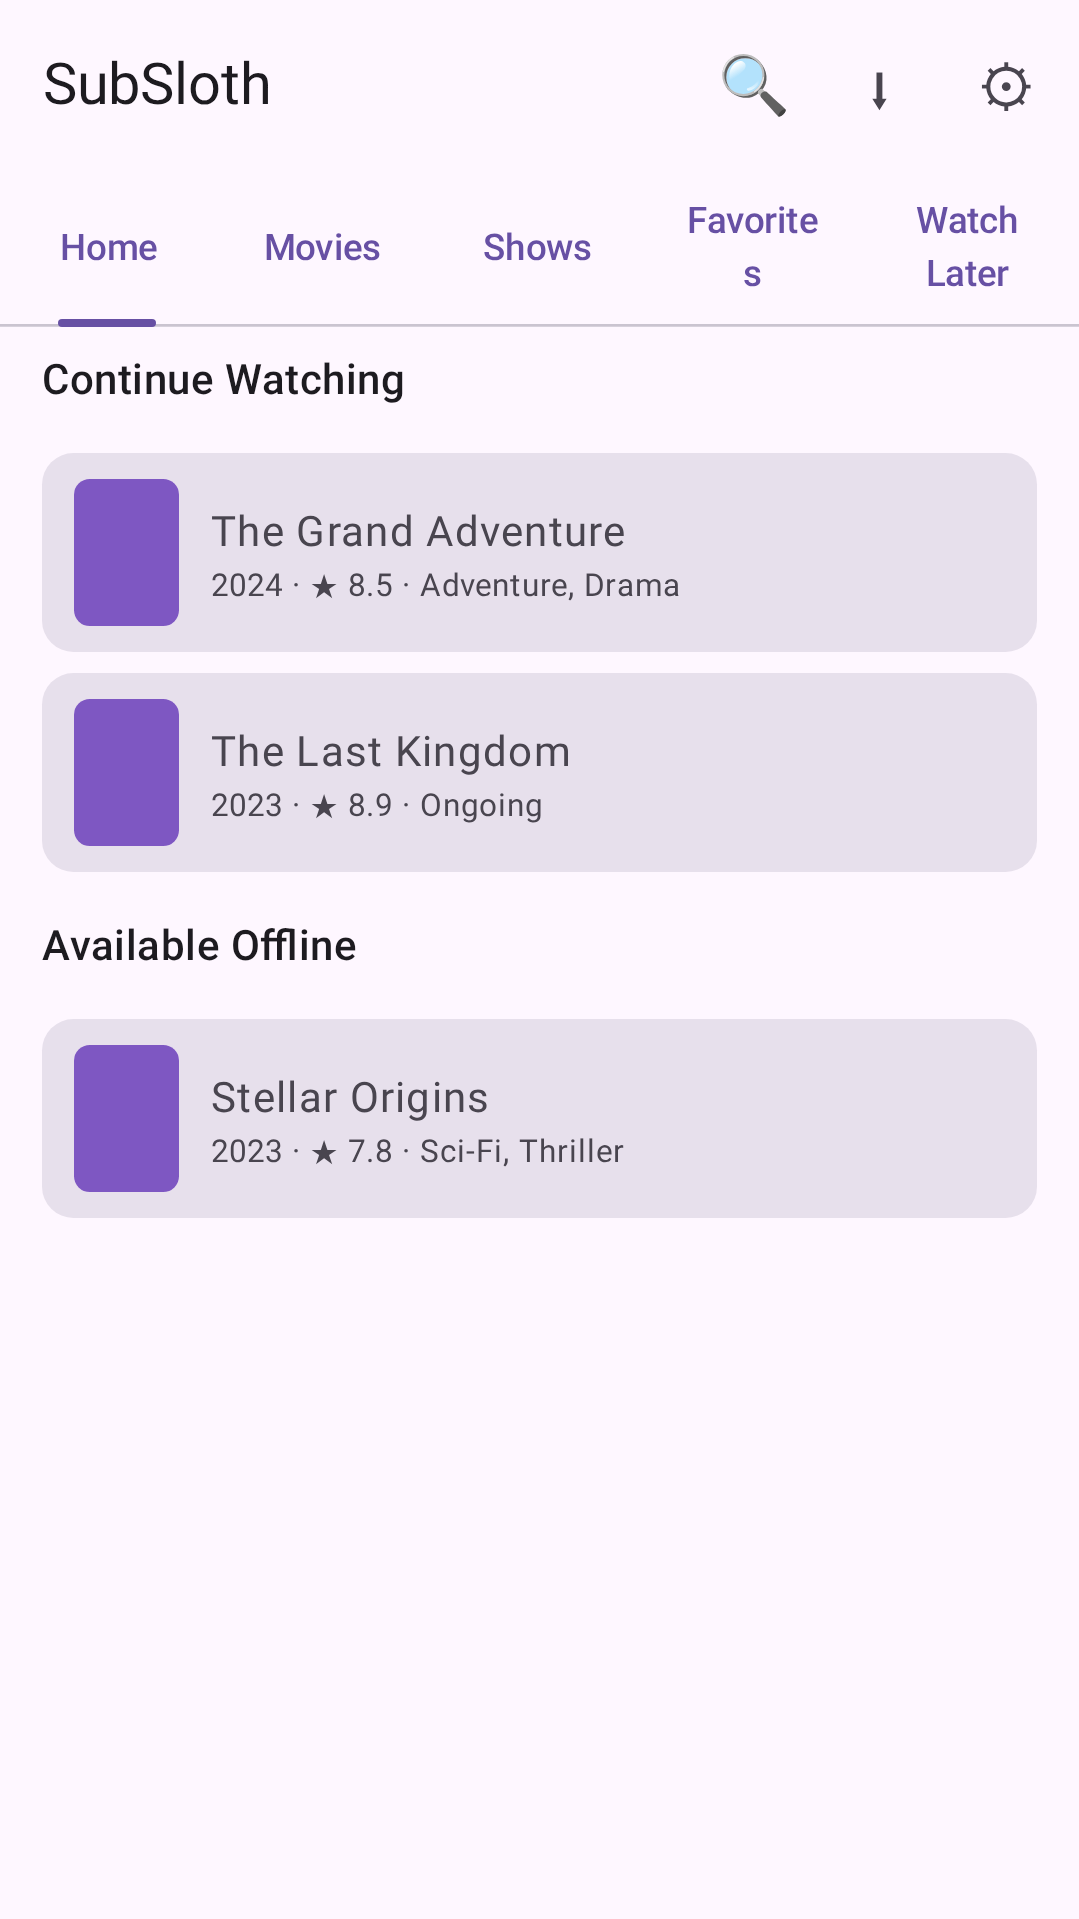
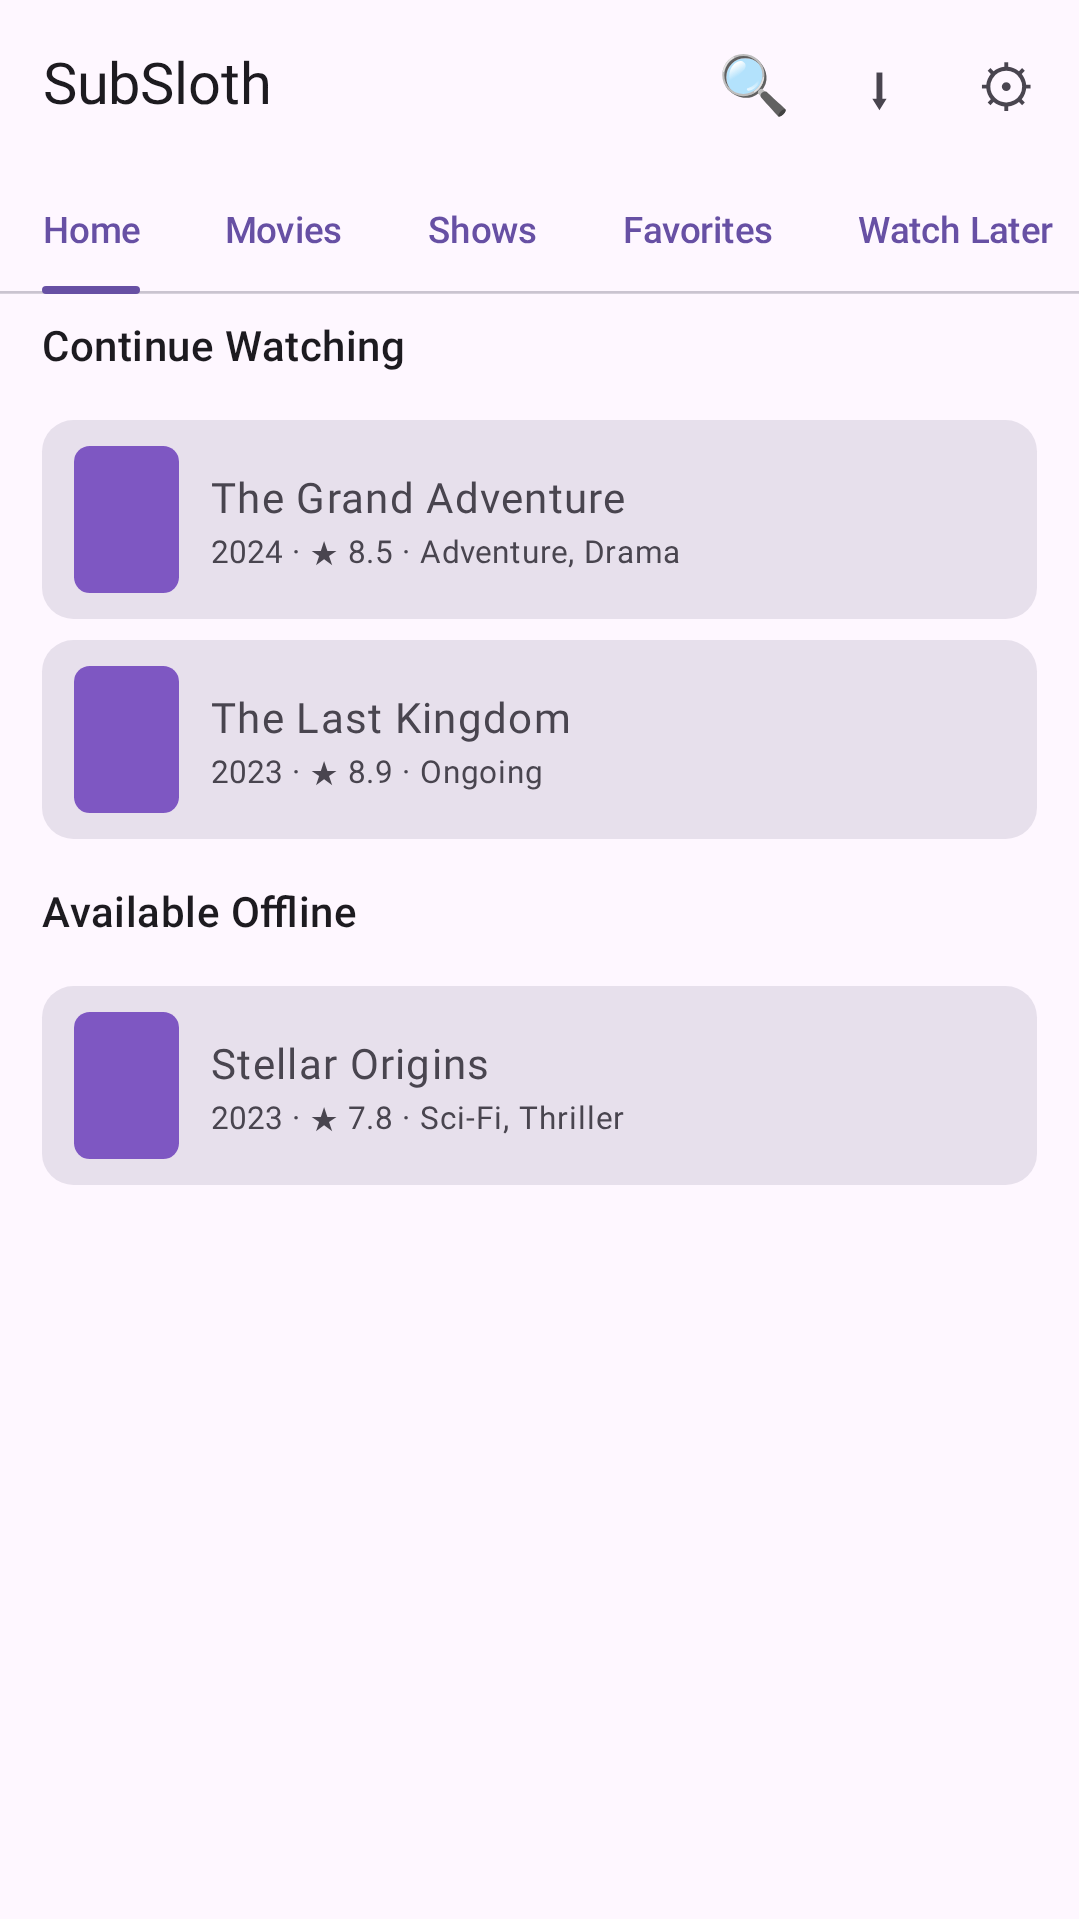
fix: keep the home tab labels on one line on phones (#355)
Five equal-width tabs are too narrow for these labels on a phone, so
'Favorites' wrapped mid-word as 'Favorite / s'. Narrow windows now use a
scrollable tab row with a 64dp minimum tab width (labels keep their
natural width and fit), while tablet/TV keep the evenly distributed row.

Golden regenerated on an API 36 emulator; validateDebugScreenshotTest
passes and the README screenshot now shows all five labels on one line.

diff --git a/feature/catalog/src/commonMain/kotlin/net/subsloth/catalog/HomeScreen.kt b/feature/catalog/src/commonMain/kotlin/net/subsloth/catalog/HomeScreen.kt
@@ -2,6 +2,7 @@ package net.subsloth.catalog
 
 import androidx.compose.foundation.layout.Arrangement
 import androidx.compose.foundation.layout.Box
+import androidx.compose.foundation.layout.BoxWithConstraints
 import androidx.compose.foundation.layout.Column
 import androidx.compose.foundation.layout.fillMaxSize
 import androidx.compose.foundation.layout.padding
@@ -12,6 +13,7 @@ import androidx.compose.material3.CircularProgressIndicator
 import androidx.compose.material3.ExperimentalMaterial3Api
 import androidx.compose.material3.IconButton
 import androidx.compose.material3.MaterialTheme
+import androidx.compose.material3.PrimaryScrollableTabRow
 import androidx.compose.material3.PrimaryTabRow
 import androidx.compose.material3.Scaffold
 import androidx.compose.material3.SnackbarDuration
@@ -183,13 +185,32 @@ fun CatalogContent(
     onShowClick: (Media.MediaId.Show) -> Unit = {},
 ) {
     Column(modifier = modifier.fillMaxSize()) {
-        PrimaryTabRow(selectedTabIndex = state.selectedTab.ordinal) {
-            HomeTab.entries.forEach { tab ->
-                Tab(
-                    selected = state.selectedTab == tab,
-                    onClick = { onTabSelected(tab) },
-                    text = { Text(tab.label) },
-                )
+        // Five tabs with these labels do not fit equally on a phone: an
+        // equal-width row wraps "Favorites" mid-word. Narrow windows get a
+        // scrollable row (tabs keep their natural width), wide windows keep
+        // the evenly distributed row.
+        BoxWithConstraints {
+            val tabs: @Composable () -> Unit = {
+                HomeTab.entries.forEach { tab ->
+                    Tab(
+                        selected = state.selectedTab == tab,
+                        onClick = { onTabSelected(tab) },
+                        text = { Text(tab.label) },
+                    )
+                }
+            }
+            if (maxWidth < TAB_ROW_SCROLL_THRESHOLD) {
+                PrimaryScrollableTabRow(
+                    selectedTabIndex = state.selectedTab.ordinal,
+                    edgePadding = 0.dp,
+                    minTabWidth = TAB_ROW_MIN_TAB_WIDTH,
+                ) {
+                    tabs()
+                }
+            } else {
+                PrimaryTabRow(selectedTabIndex = state.selectedTab.ordinal) {
+                    tabs()
+                }
             }
         }
 
@@ -391,3 +412,9 @@ private fun mediaClick(
         is Media.MediaId.Episode -> {}
     }
 }
+
+/** Below this width the tab labels do not fit equally; scroll instead of wrapping. */
+private val TAB_ROW_SCROLL_THRESHOLD = 600.dp
+
+/** Keeps the five labels on one line while they still fit a phone width. */
+private val TAB_ROW_MIN_TAB_WIDTH = 64.dp
